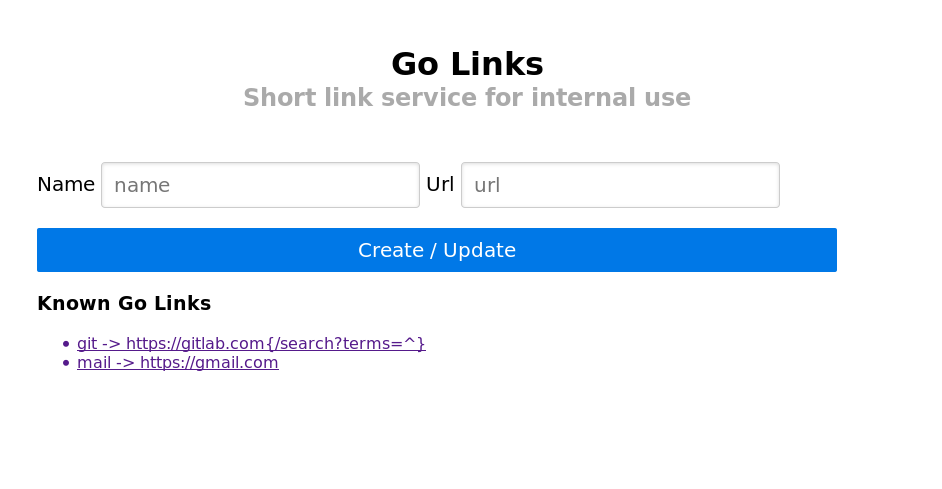
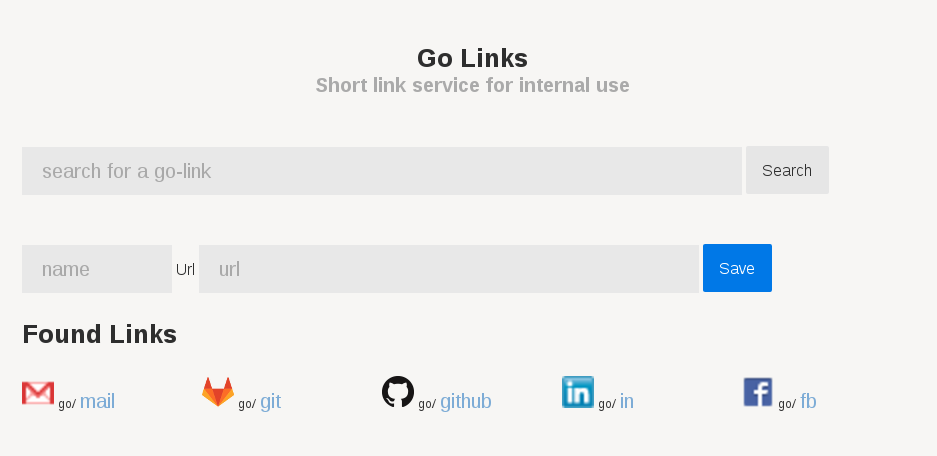
styles

diff --git a/templates/index.html b/templates/index.html
@@ -1,89 +1,136 @@
 <html>
-  <head>
-    <link rel="stylesheet" href="https://unpkg.com/purecss@0.6.0/build/pure-min.css">
-    <style>
-     body {
-	 max-width: 900px;
-	 margin: 0 auto;
+    <head>
+	<link rel="stylesheet" href="https://unpkg.com/purecss@0.6.0/build/pure-min.css">
+	<style>
+	 body {
+	     max-width: 900px;
+	     margin: 0 auto;
+	     color: #2e2e2e;
+	     background-color: #f7f6f4;
+	     font-family: 'PTSansWeb', 'Segoe UI', Arial, sans-serif;
+	     font-size: 13px;
+	     font-weight: normal;
+	 }
 
-     }
-     .xlarge {
-	 font-size: 125%;
-     }
+	 #search {
+	     width: 80%;
+	 }
 
-     h1 {
-	 text-align: center;
-	 margin: 50px;
-     }
+	 #name {
+	     width: 150px;
+	 }
+	 #url {
+	     width: 500px;
+	 }
 
-     h1 > small {
-	 display: block;
-	 color: #aaaaaa;
-	 font-size: 75%;
-     }
+	 .favicon {
+	     height: 32px;
+	     weight: 32px;
+	 }
 
-     .pure-button-primary {
-	 display: block;
-	 width: 100%;
-	 margin-top: 20px;
+	 .record_header {
+	     color: #333333;
+	 }
 	 
-     }
-     dd {
-	 display: block;
-	 margin-left: 40px;
-     }
-
-     #search-form {
-	 margin-bottom: 50px;
+	 a {
+	     color: #7dacd6;
+	     text-decoration: none;
+	 }
 	 
-     }
-     
-    </style>
-   </head>
-   <body>
-       <h1>
-	   {% if settings.MAIN_IMAGE %}
-	   <img src="{{settings.MAIN_IMAGE}}" />
-	   {% endif %}
-	   {{settings.TITLE}}
-	   <small>{{settings.SUB_TITLE}}</small>
-       </h1>
+	 a:hover {
+	     color:#6084a5;
+	     box-shadow:0 2px 0 0 #6084a5;
+	 }
 
-       {% with messages = get_flashed_messages() %}
-       {% if messages %}
-       <ul class="flashes">
-	   {% for message in messages %}
-	   <li>{{ message }}</li>
-	   {% endfor %}
-       </ul>
-       {% endif %}
-       {% endwith %}
+	 .xlarge {
+	     font-size: 125%;
+	 }
+	 
+	 h1 {
+	     text-align: center;
+	     margin: 50px;
+	 }
+	 
+	 h1 > small {
+	     display: block;
+	     color: #aaaaaa;
+	     font-size: 75%;
+	 }
+	 
+	 input {
+	     font-family: 'PTSansWeb','Segoe UI',Arial,sans-serif;
+	     font-size: 20px;
+	     height: 48px;
+	     color: #3c3c3c;
+	     background-color: #e8e8e8;
+	     border: 0;
+	     padding: 20px;
+	 }
+	 
+	 button {
+	     height: 48px;
+	     margin-top: -5px;
+	     padding: 20px;
+	 }
+	 
+	 .button-delete {
+             background: rgb(202, 60, 60);
+	 }
+	 
+	 #search-form {
+	     margin-bottom: 50px;
+	 }
 
-       <form id="search-form" class="pure-form xlarge" action="/golinks/search" method="POST">
+	 .record_name {
+	     font-size: 150%;
+	 }
 
-	   <input type="text" id="search" name="search" class="pure-input-1-1"
-		  placeholder="search for a go-link"
-		  value="{{previous_search_text}}"
-	   />
-	   <button type="submit" class="pure-button">
-	       {{settings.SEARCH_TEXT}}
-	   </button>
-       </form>
-      
-       <form id="crud-form" class="pure-form xlarge" action="/golinks/submit" method="POST">
-
-	<label for="name">
-	  Name
-	</label>
+	 h3 {
+	     font-size: 200%;
+	 }
+	</style>
+    </head>
+    <body>
+	<h1>
+	    {% if settings.MAIN_IMAGE %}
+	    <img src="{{settings.MAIN_IMAGE}}" />
+	    {% endif %}
+	    {{settings.TITLE}}
+	    <small>{{settings.SUB_TITLE}}</small>
+	</h1>
+	
+	{% with messages = get_flashed_messages() %}
+	{% if messages %}
+	<ul class="flashes">
+	    {% for message in messages %}
+	    <li>{{ message }}</li>
+	    {% endfor %}
+	</ul>
+	{% endif %}
+	{% endwith %}
+	
+	<form id="search-form" class="xlarge" action="/golinks/search/" method="POST">
+	    
+	    <input type="text" id="search" name="search" class="pure-input-10-12"
+		   placeholder="search for a go-link"
+		   value="{{previous_search_text}}"
+	    />
+	    <button type="submit" class="pure-button">
+		{{settings.SEARCH_TEXT}}
+	    </button>
+	</form>
+	
+	<form id="crud-form" class="xlarge" action="/golinks/submit/" method="POST">
+	    
 	<input type="text" id="name" placeholder="name"
 	       name="name" class="pure-input-3-12"
 	       {% if edit_record %}
 	       value="{{edit_record.name}}"
 	       {% endif %}
 	>
-
+	
 	<label for="url">
-	  Url
+	    Url
 	</label>
 	<input type="text" id="url" placeholder="url"
 	       name="url" class="pure-input-4-12"
@@ -91,31 +138,40 @@
 	       value="{{edit_record.url}}"
 	       {% endif %}
 	>
-
-	
+		
 	<button type="submit" class="pure-button pure-button-primary">
 	    {{settings.CREATE_UPDATE_TEXT}}
 	</button>
+	
+	{% if edit_record %}
+	<a href="/golinks/delete/{{edit_record.name}}/">
+	    <button type="button" class="pure-button pure-button-primary button-delete">
+		{{settings.DELETE_TEXT}}
+	    </button>
+	</a>
+	{% endif %}
+	
+	
+	</form>
 
-      </form>
 
+      
       {% if all_records %}
       <div class="found_links">
 	  <h3>Found Links</h3>
-	  <dl class='records'>
+	  <div class="pure-g">
 	      {% for record in all_records %}
-	      <a href="/golinks/edit/{{record.name}}/">
-		  <dt>{{record.name}}</dt>
-	      </a>
-	      <dd>{{record.url}}</dd>
-	      <a href="/golinks/delete/{{record.name}}/">
-		  <dd>[delete]</dd>
-	      </a>
-
+	      <div class="pure-u-1-5">
+		  <a href="/golinks/edit/{{record.name}}/" title="{{record.url}}" class="record" >
+		      <img src="{{record.favicon}}" class="favicon" />
+		      <span class="record_header">go/</span>
+		      <span class="record_name">{{record.name}}</span>
+		  </a>
+	      </div>
 	      {% endfor %}
-	  </dl>
+	  </div>
       </div>
       {% endif %}
-
-  </body>
+      
+    </body>
 </html>

diff --git a/main.py b/main.py
@@ -28,8 +28,20 @@ class GoRecord(db.Model):
     def __repr__(self):
         return "<GoRecord {.name}>".format(self)
 
+    @property
+    def favicon(self):
+        try:
+            domain = self.url_plain.split('/')[2]
+            favicon_path = "http://{0}/favicon.ico".format(domain)
+            return favicon_path
+        except Exception:
+            return ''
+
+    @property
+    def url_plain(self):
+        return re.sub('{.*}', '', self.url)
+
     def link(self, optional=None):
-        url_plain = re.sub('{.*}', '', self.url)
         url_optional = ''
 
         try:
@@ -40,9 +52,9 @@ class GoRecord(db.Model):
 
         if optional:
             optional_args = url_optional.replace('^', optional)
-            return '{}{}'.format(url_plain, optional_args)
+            return '{}{}'.format(self.url_plain, optional_args)
 
-        return url_plain
+        return self.url_plain
 
 
 def render_template_with_settings(template, **kwargs):
@@ -91,15 +103,17 @@ def golink_edit(name):
     )
 
 
-@app.route('/golinks/search', methods=['POST'])
-@app.route('/golinks/search/<search>', methods=['GET'])
-def golink_search(search=None):
+@app.route('/golinks/search/', methods=['POST'])
+def golink_search_redirect_post():
+    search = request.form.get('search')
+    if not search:
+        return redirect(url_for('.index'))
 
-    if search is None:
-        search = request.form.get('search')
-        golink_search_url = "{}/{}".format(url_for('golink_search'), search)
-        return redirect(golink_search_url)
+    return redirect(url_for('golink_search', search=search))
 
+
+@app.route('/golinks/search/<search>/', methods=['GET'])
+def golink_search(search):
     search_like = '%{}%'.format(search)
     search_q = GoRecord.query.filter(or_(
         GoRecord.name.like(search_like),
@@ -115,7 +129,7 @@ def golink_search(search=None):
     )
 
 
-@app.route('/golinks/submit', methods=['POST'])
+@app.route('/golinks/submit/', methods=['POST'])
 def golink_submit():
     name = request.form.get('name')
     url = request.form.get('url')

diff --git a/default_settings.py b/default_settings.py
@@ -2,8 +2,11 @@ SQLALCHEMY_DATABASE_URI = 'sqlite://'
 SQLALCHEMY_TRACK_MODIFICATIONS = False
 
 DEMO_RECORDS = [
-    ('mail', 'https://gmail.com'),
-    ('git', 'https://gitlab.com{/search?terms=^}')
+    ('mail', 'https://mail.google.com'),
+    ('git', 'https://gitlab.com{/search?terms=^}'),
+    ('github', 'https://github.com{/search?terms=^}'),
+    ('in', 'https://linkedin.com'),
+    ('fb', 'https://www.facebook.com')
 ]
 
 ADD_DEMO_RECORDS = True
@@ -16,3 +19,7 @@ HOSTNAME = 'localhost'
 
 DEBUG = True
 SECRET_KEY = 'CHANGE_ME'
+
+CREATE_UPDATE_TEXT = 'Save'
+SEARCH_TEXT = 'Search'
+DELETE_TEXT = 'Delete'

diff --git a/settings.py b/settings.py
@@ -1,14 +1,4 @@
 from default_settings import *  # noqa
 
 SQLALCHEMY_DATABASE_URI = 'sqlite://'
-SQLALCHEMY_TRACK_MODIFICATIONS = False
-
-DEMO_RECORDS = [
-    ('mail', 'https://gmail.com'),
-    ('git', 'https://gitlab.com{/search?terms=^}')
-]
-
-TITLE = 'Go Links'
-SUB_TITLE = 'Short link service for internal use'
-CREATE_UPDATE_TEXT = 'Create / Update'
-SEARCH_TEXT = 'Search'
+SECRET_KEY = 'CHANGE_ME'
